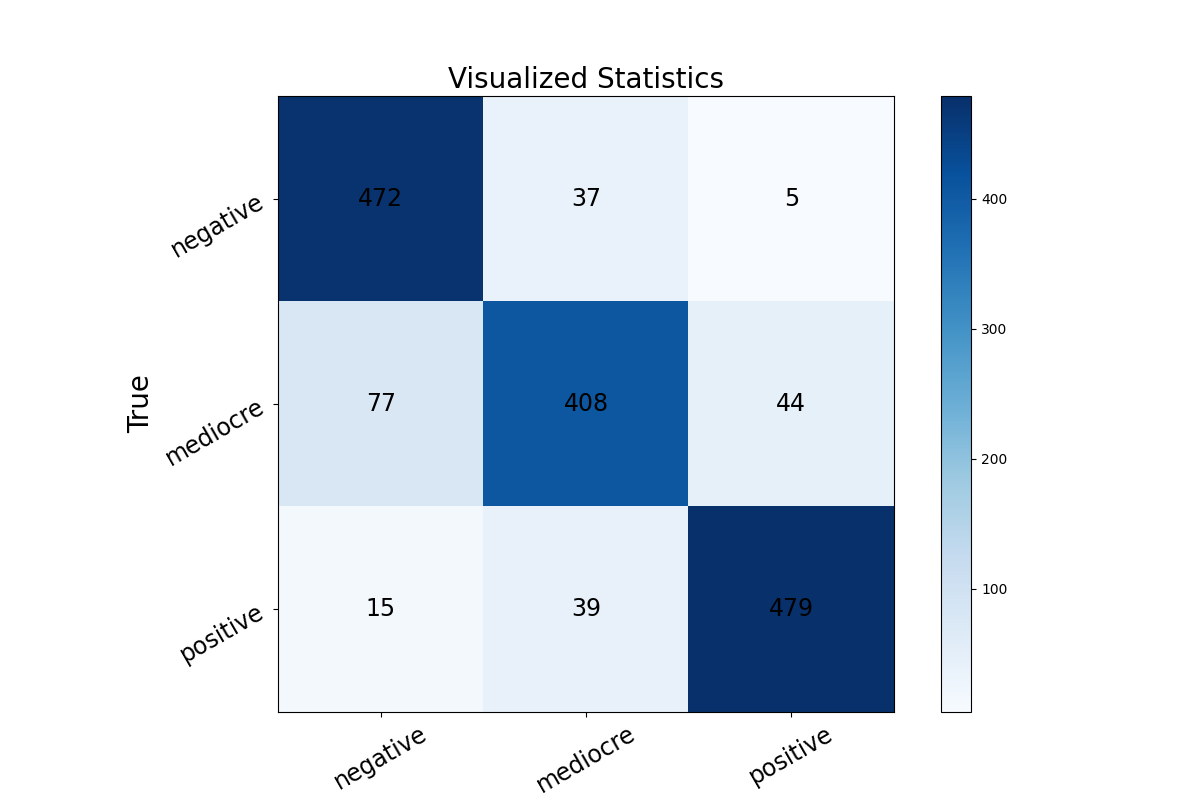
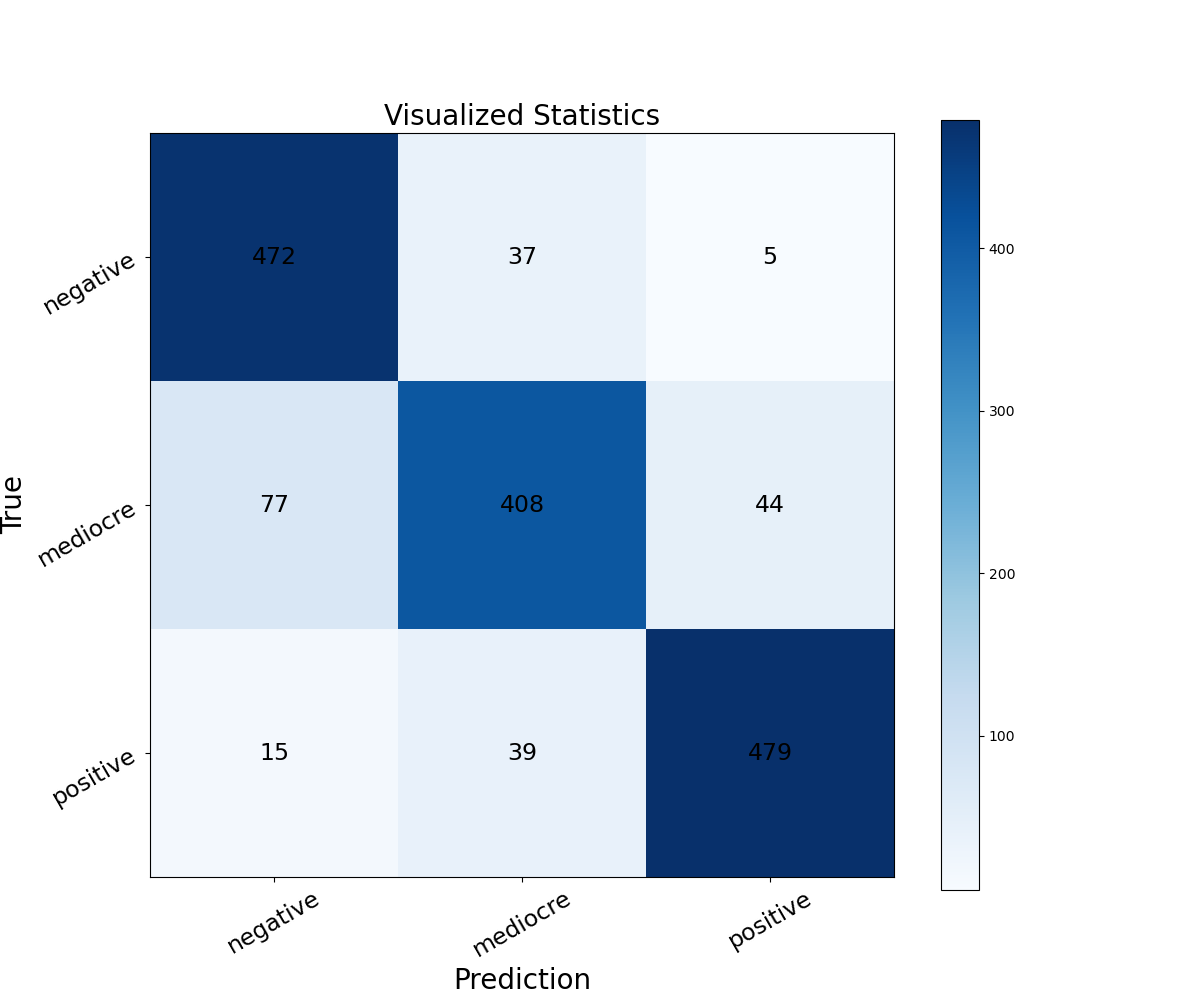
[fix] img error

diff --git a/src/train.py b/src/train.py
@@ -228,7 +228,7 @@ class Trainer:
         # visualization the entire statistics
         cm = confusion_matrix(all_gt, all_pred)
         cm = pd.DataFrame(cm, index=class_name, columns=class_name)
-        plt.figure(figsize=(12, 8))
+        plt.figure(figsize=(12, 10))
         plt.imshow(cm, cmap='Blues', interpolation=None)
         plt.title('Visualized Statistics', fontsize=20)
         plt.xlabel('Prediction', fontsize=20)
